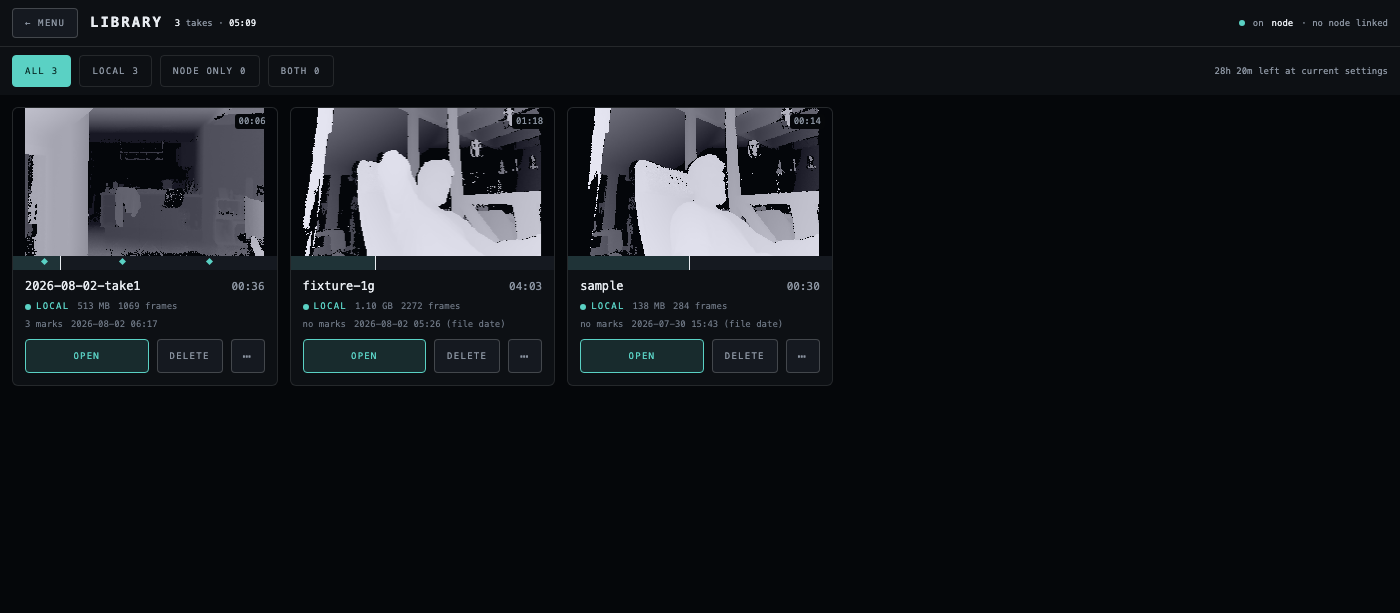
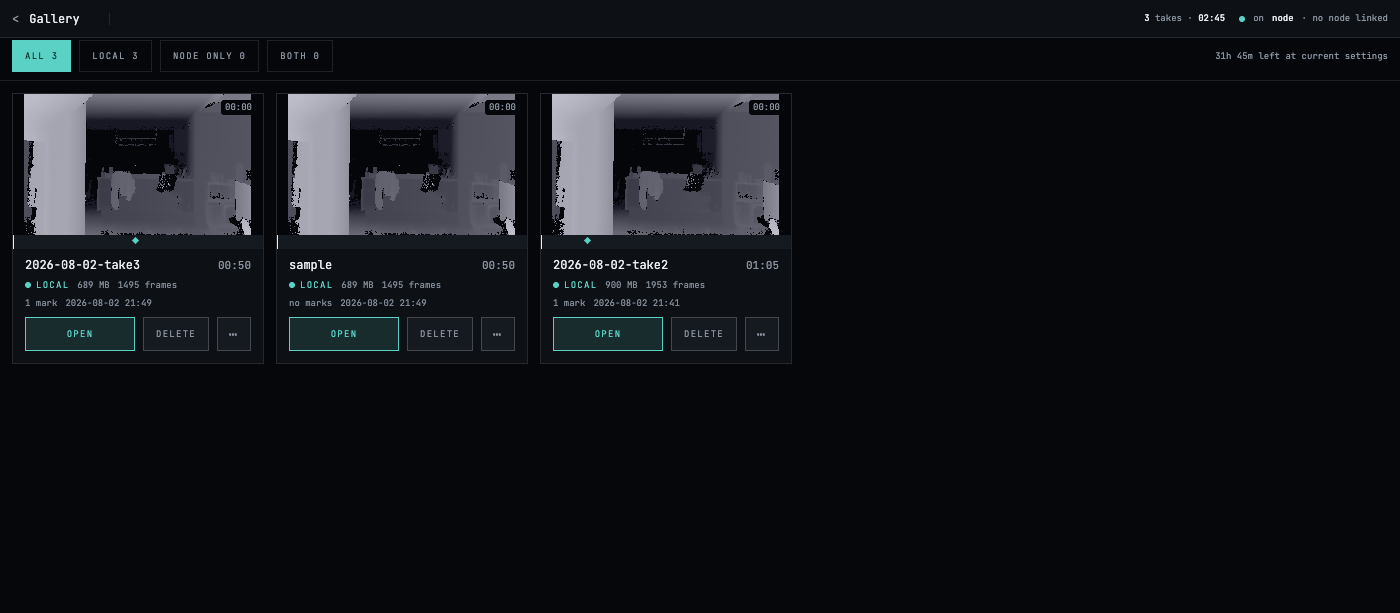
Re-shoot the README's surfaces, and say what the rework moved
main cut the README back to the usage path while this branch rebuilt the surfaces
that path walks through, so every screenshot in it was a picture of a program that
no longer exists and several paragraphs named controls that had gone. Both halves
are re-done together, because a caption describing the old panel beside an image
of the new one is worse than either alone.

Re-shot off a running server against the fake grabber at 30fps, each at the pixel
size of the image it replaces so the set still sits with `flythrough.gif` at one
scale:

  menu     unchanged but for the bar the rework put over it
  viewer   the record surface: application bar, four-tab panel, Record tab open
  gallery  filter row, LOCAL badges, mark on the scrub bar, node state in the bar
  editor   five real keys, the path arced through the view and the top-down inset
  export   the Export dialog, which is where format lives now
  look     new - the Look tab with the preset picker open on all five builtins

The editor shot is staged by driving the editor rather than by loading a project:
seek, orbit, `add key`, five times, then pull back so the subject and the keyed
path are both in frame. The old image came from a `readme-flythrough` project that
no longer exists in the tree, and inventing a saved document to photograph would
be a fixture nobody could reproduce. `tNote` is blanked before each frame - the
staging writes "applied 24 of 54 values from blackwall" into it and `say()` has no
[…]

diff --git a/README.md b/README.md
@@ -47,8 +47,9 @@ npm start                 # menu on http://localhost:8080
 
 `npm start` lands on a menu: live viewer, take library, or editor.
 
-![The menu: three cards reading RECORD, GALLERY and EDITOR, the last one saying
-nothing has been opened on this machine yet.](media/menu.png)
+![The menu, under a bar reading Braindance · capture. replay. transcend.: three cards
+reading RECORD, GALLERY and EDITOR, the last one saying nothing has been opened on this
+machine yet and that it goes to the gallery instead.](media/menu.png)
 
 Two shortcuts past it:
 
@@ -66,27 +67,52 @@ shooting for five minutes.
 ### 1. Shoot a take
 
 Pick **Record**, then press **record** to arm. The recorder waits for the sensor's hello
-before opening a take, so the capture carries the intrinsics it was shot with; the bar
+before opening a take, so the capture carries the intrinsics it was shot with; the panel
 counts frames and shows the recording time the disk has left.
 
-![The live viewer in Blackwall: a room drawn as a crimson containment volume, a hot
-rim burning along the ceiling edge, with the record and shading controls down the left
-and "30 fps in" at the top.](media/viewer.png)
+![The record surface in Blackwall: a room drawn as a crimson point cloud filling the
+frame, with an application bar across the top reading Record, File, Output and View, and
+a panel down the left whose four tabs are Record, Framing, Look and Region. The Record
+tab is open, showing the record and mark buttons, "not recording", colour camera and low
+light toggles, monitor decimation and the OBS output settings. The bar's right-hand end
+reads the sensor serial, its firmware and "29 fps in".](media/viewer.png)
 
 **mark** drops a mark at the current frame, which shows up later on the gallery's scrub bar
 and the editor's ruler. **stop** closes the take: the `.knct` and its `.idx` index land in
-`captures/`, with a `.marks.jsonl` sidecar if you marked anything.
+`captures/`, with a `.marks.jsonl` sidecar if you marked anything. `R` and `M` do the same
+two things from the keyboard.
 
-**The shading controls change what you are looking at, never what is written.**
+**The panel is four tabs rather than one column.** *Record* arms the sensor and points the
+OBS output somewhere; *Framing* levels the room and sets the clip box; *Look* is everything
+about how the cloud is drawn; *Region* holds displacement and the region box. The
+application bar above them carries what is not about the picture — the project, the export,
+the OBS status — and is the same bar on every surface.
+
+**The shading controls change what you are looking at, never what is written.** They used
+to be five buttons; they are five documents now, and the *Look* tab's picker offers them
+beside anything you have saved yourself.
+
+![The same surface with the Look tab open. A Preset picker is expanded over the panel,
+listing none, blackwall, contour, depth, ghost and rgb with blackwall highlighted, and a
+plus button for saving a new one. Underneath it the Style parameters — ghost, contour,
+blackwall, ghost rim, ghost fill, bands, thickness, wall sweep, scan, rim, thermal and
+edges — each carry a slider and a value.](media/look.png)
+
+`blackwall`, `contour`, `depth`, `ghost` and `rgb` ship in `presets-builtin/` and cannot be
+overwritten; **save** writes yours to `presets/`, and **export** and **import** move them
+between machines as JSON. Every scalar underneath is still yours to move, and a row you have
+changed grows a **↺** that puts just that one back.
 
 ### 2. Find it in the gallery
 
 **Gallery** on the menu, or the link in any surface's header.
 
-![The gallery: three take cards of identical size with depth thumbnails, the first
-carrying three marks on its scrub bar, each showing its size, frame count and date
-above an Open, a Delete and a three-dot menu, with a way back to the menu in the
-header.](media/gallery.png)
+![The gallery: three take cards of identical size with depth thumbnails, two of them
+carrying a mark on the scrub bar under the poster, each showing its duration, LOCAL
+badge, size, frame count, mark count and date above an Open, a Delete and a three-dot
+menu. A filter row above them reads ALL 3, LOCAL 3, NODE ONLY 0 and BOTH 0, and the
+application bar says 3 takes, their total running time, and that no node is
+linked.](media/gallery.png)
 
 Every take is a same-size tile carrying its poster, duration, size, frame count, mark count
 and date. Skim a poster to scrub it; tap to open it large, with arrow keys stepping a frame
@@ -101,10 +127,12 @@ library into *local*, *node only* and *both*.
 **Open** lands on `/edit?take=<id>`. The cloud draws on the left, the keyed camera path with
 it and in the top-down inset, and the timeline underneath.
 
-![The editor. The recorded cloud sits on the left; on the right the keyed camera path
-draws as a line of nodes with the program camera's frustum on it. Below, three lanes
-(retime, camera, exposure) carry their keys, and the program clock reads 00:03.000
-against a source clock of 00:02.350.](media/editor.png)
+![The editor in depth shading, the room drawn cyan through orange by distance. A keyed
+camera path arcs above it as a line of five nodes with the program camera's frustum
+sitting on it, and the top-down inset repeats the same arc. The panel on the left is on
+its Camera tab, offering add key, delete key and set viewport to camera. Underneath, the
+transport reads a program clock of 00:10.967 against the same source time, and the
+timeline's camera lane says 5 keys with a diamond under each.](media/editor.png)
 
 Drag to orbit, scroll to zoom, right-drag to pan, `H` hides the panel;
 [the controls reference](docs/reference.md#viewer-and-timeline-controls) has the timeline's
@@ -113,9 +141,12 @@ navigation. On a canted mount,
 
 ### 4. Key a camera move
 
-Park the playhead, orbit to the pose you want, and press **key here** under
-*Camera · composition*. Move, orbit, press again: a key takes the pose you are orbiting
-from, and dragging a path node in either the view or the top-down moves it.
+Park the playhead, orbit to the pose you want, and press **add key** on the panel's
+*Camera* tab. Move, orbit, press again: a key takes the pose you are orbiting from, and
+dragging a path node in either the view or the top-down moves it. **delete key** removes
+the one under the playhead, and **set viewport to camera** puts your eye where the program
+camera is standing. The keyframe arrows beside the transport step between keys without
+hunting for the diamonds.
 
 Two clocks read under the transport. **program** is a position in the output, **source** a
 position in the capture; at 1.00× they agree, and pulling **speed** or keying the retime
@@ -129,12 +160,26 @@ saved with the clip nor exported.
 
 ### 5. Get a video out
 
-Set **in** and **out**, pick a size from the **export** list, name it, and press **render**.
+Set **in** and **out** on the timeline bar, then open **Output → Export** (`⌘E`), choose
+what you want out, and press **render**.
 
-![The right half of the editor's timeline bar after a render: out set to 00:01.967 over
-a 1.97s length, and below it the export row reading 2026-08-02-take2.mp4 · 60 frames ·
-0.6 MB in 1.5s, beside the name field, a 960x540 size, render and save a
-copy.](media/export.png)
+![The Export dialog. Aspect ratio runs across the top as 16:9, 1.90:1, 4:3, 1:1 and
+65:24 with 16:9 selected; below it a Resolution of 1920x1080 and a Frame rate of 30, then
+a Format row of MP4, MOV and PNG sequence with MP4 selected, an Output name whose
+placeholder is the take's id, and save a copy and render at the
+foot.](media/export.png)
+
+**Three things come out, and they are for different jobs.** **MP4** is h264 and the one to
+send someone. **MOV** is ProRes 422 HQ at 10-bit 4:2:2, which is what an editor that is
+going to grade the shot wants. **PNG sequence** writes the frames themselves into a
+directory, for a compositor or for anything that should not be told about codecs at all.
+Aspect ratio and resolution are two controls over one list: the resolutions are grouped by
+shape, and pressing a ratio moves you into that group rather than filtering the others
+away, so the ratio row is a way of getting about a long list and the select still shows
+everything. Frame rate sits beside them because it used to have only a default — an edit
+went out at 30 with nothing on screen saying that had been chosen. Only h264 insists on
+even dimensions, so odd sizes stay available on the other two rather than being refused at
+the end of a render.
 
 The render runs in the page, frame by frame through the program camera, pushing frames to
 ffmpeg over a socket. Each render gets its own directory under `exports/` with a `.job.json`
@@ -172,8 +217,11 @@ add the deliverable back yourself.
 
 ## Streaming to OBS
 
-Two outputs, and they are different pictures rather than two views of one. The panel's
-*Output to OBS* group prints both URLs.
+Two outputs, and they are different pictures rather than two views of one. Both URLs are
+printed twice over: in the record panel's *Output* group, where you are already standing
+when you point the thing at OBS, and in **Output → OBS**, which is the same two addresses
+with a **copy** button on each, the camera and resolution beside them, and a line saying
+how many sources are actually attached right now.
 
 | What | How | What it is |
 | --- | --- | --- |
